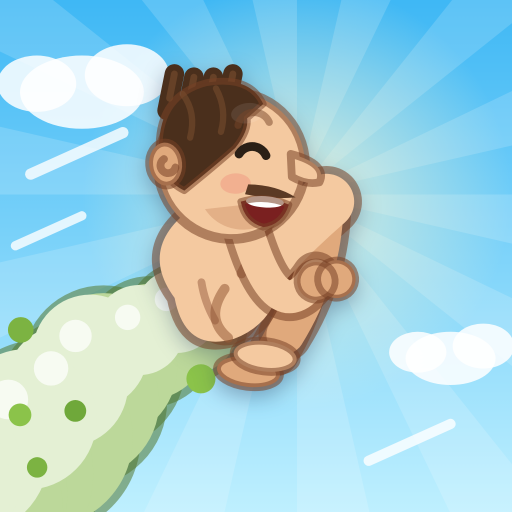
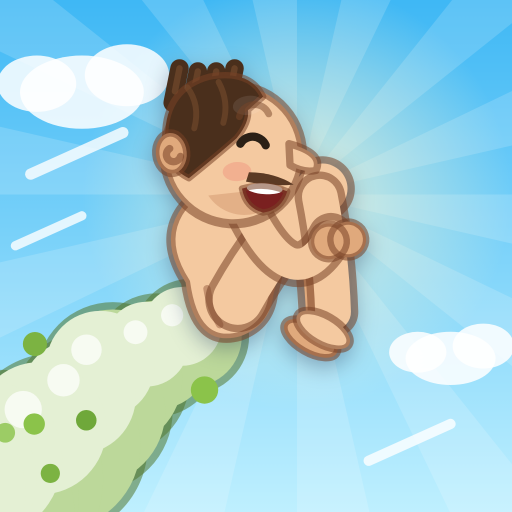
Rebuild Kurt's tuck as an upright cannonball from the reference photos (#6)
Re-pose the tuck to match the reference photos directly: the body stays
upright with a tall rounded back, the knees are hugged up to chest height
so they lead in front of the chin, the shins hang almost straight down
from the knees so the feet dangle below the butt with sky showing between
the calves and the belly, and the near arm runs down the side of the
thigh to a low elbow with the forearm crossing the shin just under the
knee, hands clasped on the shin.

Every piece is back to being its own fully outlined capsule, layered back
to front, so each overlap draws a clean edge and the negative space does
the work at game size instead of a single merged outline. The fart origin
moves with the butt.

The icon framing scales down and shifts up for the taller pose so the
feet stay inside the frame and the maskable safe circle; all icon PNGs
regenerated with tools/build-icons.mjs.

Claude-Session: https://claude.ai/code/session_01Xv5vU6vvioL4J4ZmquSQUE

Changed region(s): [[0.0, 0.0938, 0.7188, 1.0]]

diff --git a/src/kurt.js b/src/kurt.js
@@ -139,8 +139,8 @@ export function getButtPosition(kurt) {
   const rad = (kurt.rotation * Math.PI) / 180;
   const cos = Math.cos(rad);
   const sin = Math.sin(rad);
-  const localX = -R * 0.42;
-  const localY = R * 0.3;
+  const localX = -R * 0.5;
+  const localY = R * 0.58;
   return {
     x: kurt.x + localX * cos - localY * sin,
     y: kurt.y + localX * sin + localY * cos,
@@ -254,95 +254,77 @@ export function drawKurt(ctx, kurt) {
   ctx.restore();
 }
 
-// The flying tuck (a cannonball off the diving board). Kurt faces +x.
-// Thighs fold up hard against the chest so the knees sit just in front
-// of and below the chin, the shins fold back tight under the thighs with
-// the heels pulled in under the butt, the feet trail back and down, and
-// the near arm wraps around the outside of the leg to grip the shin just
-// below the knee.
+// The flying tuck: a cannonball off the diving board. Kurt faces +x.
+// Built straight from the reference photos: the body stays upright with
+// a rounded back, the knees are hugged up to chest height so they lead in
+// front of the chin, the shins hang almost straight down from the knees
+// so the feet dangle below the butt with sky showing between the calves
+// and the belly, and the near arm runs down the side of the thigh to a
+// low elbow with the forearm crossing the shin just under the knee,
+// hands clasped on the shin.
 //
-// Readability over anatomy: the outer silhouette carries the pose — a
-// round back, a knee bump leading in front, the straight underside of the
-// folded leg running from knee back to the feet, the feet as a bump
-// below, and the arm's elbow and hands bumping out in front. The torso,
-// near thigh and near shin share one outline pass and one fill pass so
-// they read as a single clean body; the shin in shade and a few crease
-// lines separate the limbs inside it. The far leg, the feet, the arm and
-// the hands are separate outlined pieces.
+// Readability over anatomy: every piece is its own fully outlined
+// capsule, layered back to front so each overlap draws a clean edge, and
+// the layout leaves real negative space (between shin and belly, between
+// chin and knee) so the silhouette alone says "tucked" at game size.
+//   far shin + far foot (shade) -> torso -> near thigh -> near shin ->
+//   near foot -> near arm -> clasped hands
 // Limbs are [startX, startY, controlX, controlY, endX, endY, width] in R.
-const NEAR_THIGH = [-0.3, 0.46, 0.14, 0.12, 0.7, -0.14, 0.44];
-const NEAR_SHIN = [0.68, -0.12, 0.52, 0.4, 0.1, 0.78, 0.3];
-const FAR_SHIN = [0.52, 0.0, 0.38, 0.5, -0.02, 0.88, 0.28];
-const NEAR_ARM = [0.04, -0.3, 0.0, 0.8, 0.46, 0.4, 0.26];
+const NEAR_THIGH = [-0.24, 0.56, 0.18, 0.14, 0.7, -0.14, 0.42];
+const NEAR_SHIN = [0.66, -0.08, 0.62, 0.4, 0.5, 0.88, 0.3];
+const FAR_SHIN = [0.56, -0.04, 0.52, 0.44, 0.4, 0.92, 0.28];
+const NEAR_ARM = [0.02, -0.3, 0.16, 0.76, 0.66, 0.26, 0.26];
 const LIMB_EDGE = 3.2;
 
 function drawTuckBody(ctx, R, wiggle) {
-  // far leg, in shade: a second knee and a second foot peeking out just
-  // below and behind the near leg, so the tuck clearly has both legs up
-  strokeLimb(ctx, R, FAR_SHIN, OUTLINE, LIMB_EDGE);
-  strokeLimb(ctx, R, FAR_SHIN, SKIN_SHADE, 0);
-  drawFoot(ctx, R, -0.26, 0.98, 0.4, SKIN_SHADE);
-
-  // torso + near thigh + near shin as one silhouette
   ctx.lineJoin = "round";
-  torsoPath(ctx, R);
-  ctx.strokeStyle = OUTLINE;
-  ctx.lineWidth = LIMB_EDGE;
-  ctx.stroke();
-  strokeLimb(ctx, R, NEAR_THIGH, OUTLINE, LIMB_EDGE);
-  strokeLimb(ctx, R, NEAR_SHIN, OUTLINE, LIMB_EDGE);
+
+  // far leg, in shade: a second shin and foot just behind the near leg,
+  // so the tuck clearly has both legs hugged up
+  drawLimb(ctx, R, FAR_SHIN, SKIN_SHADE);
+  drawFoot(ctx, R, 0.26, 1.04, 0.8, SKIN_SHADE);
+
   torsoPath(ctx, R);
   ctx.fillStyle = SKIN;
   ctx.fill();
-  strokeLimb(ctx, R, NEAR_SHIN, SKIN_SHADE, 0);
-  strokeLimb(ctx, R, NEAR_THIGH, SKIN, 0);
-
-  // creases carving the limbs out of the silhouette: the top of the thigh
-  // against the chest and the glute fold at the hip
-  ctx.strokeStyle = "rgba(150,90,55,0.55)";
+  ctx.strokeStyle = OUTLINE;
   ctx.lineWidth = 2;
-  ctx.lineCap = "round";
-  ctx.beginPath();
-  ctx.moveTo(-R * 0.1, R * 0.22);
-  ctx.quadraticCurveTo(R * 0.2, -R * 0.1, R * 0.5, -R * 0.32);
   ctx.stroke();
-  ctx.beginPath();
-  ctx.moveTo(-R * 0.26, R * 0.3);
-  ctx.quadraticCurveTo(-R * 0.48, R * 0.48, -R * 0.34, R * 0.68);
-  ctx.stroke();
-
-  drawFoot(ctx, R, -0.1, 0.9, 0.4, SKIN);
   drawButtCrack(ctx, R, wiggle);
 
-  // near arm: runs down the outside of the thigh to a low elbow, then the
-  // forearm reaches up and forward to grip the shin just below the knee
-  strokeLimb(ctx, R, NEAR_ARM, OUTLINE, LIMB_EDGE);
-  strokeLimb(ctx, R, NEAR_ARM, SKIN, 0);
-  drawClaspedHands(ctx, R, R * 0.52, R * 0.44);
+  // near leg: thigh hugged up to the chest, shin hanging from the knee
+  drawLimb(ctx, R, NEAR_THIGH, SKIN);
+  drawLimb(ctx, R, NEAR_SHIN, SKIN);
+  drawFoot(ctx, R, 0.38, 1.0, 0.8, SKIN);
+
+  // near arm: down the side of the thigh to a low elbow, then the forearm
+  // reaches up and forward to grip the shin just below the knee
+  drawLimb(ctx, R, NEAR_ARM, SKIN);
+  drawClaspedHands(ctx, R, R * 0.7, R * 0.3);
 }
 
 function torsoPath(ctx, R) {
-  // a compact bean folded forward: a strong rounded back from the
-  // shoulders down to a round butt, the chest leaning into the thigh
+  // an upright bean: tall rounded back from the shoulders down to a round
+  // butt, a narrow belly so the hanging shins clear it
   ctx.beginPath();
   ctx.moveTo(R * 0.2, -R * 0.42);
-  ctx.quadraticCurveTo(R * 0.02, -R * 0.5, -R * 0.14, -R * 0.44);
-  ctx.quadraticCurveTo(-R * 0.86, -R * 0.28, -R * 0.66, R * 0.26);
-  ctx.quadraticCurveTo(-R * 0.7, R * 0.7, -R * 0.3, R * 0.7);
-  ctx.quadraticCurveTo(-R * 0.05, R * 0.68, R * 0.1, R * 0.5);
-  ctx.quadraticCurveTo(R * 0.42, R * 0.1, R * 0.4, -R * 0.24);
+  ctx.quadraticCurveTo(R * 0.02, -R * 0.5, -R * 0.14, -R * 0.46);
+  ctx.quadraticCurveTo(-R * 0.8, -R * 0.3, -R * 0.62, R * 0.3);
+  ctx.quadraticCurveTo(-R * 0.7, R * 0.86, -R * 0.3, R * 0.86);
+  ctx.quadraticCurveTo(-R * 0.04, R * 0.84, R * 0.06, R * 0.6);
+  ctx.quadraticCurveTo(R * 0.3, R * 0.2, R * 0.38, -R * 0.24);
   ctx.quadraticCurveTo(R * 0.36, -R * 0.42, R * 0.2, -R * 0.42);
   ctx.closePath();
 }
 
 function drawButtCrack(ctx, R, wiggle) {
-  const cx = -R * 0.46 + wiggle;
+  const cx = -R * 0.5 + wiggle;
   ctx.strokeStyle = "rgba(140,80,50,0.45)";
   ctx.lineWidth = 1.6;
   ctx.lineCap = "round";
   ctx.beginPath();
-  ctx.moveTo(cx, R * 0.2);
-  ctx.quadraticCurveTo(cx - R * 0.02, R * 0.36, cx + R * 0.02, R * 0.52);
+  ctx.moveTo(cx, R * 0.4);
+  ctx.quadraticCurveTo(cx - R * 0.02, R * 0.56, cx + R * 0.02, R * 0.72);
   ctx.stroke();
 }
 
@@ -376,16 +358,18 @@ function drawFoot(ctx, R, cx, cy, rot, fill) {
   ctx.stroke();
 }
 
-// a limb is a rounded stroke along a quadratic curve, [sx, sy, cx, cy,
-// ex, ey, width] in units of R; stroke it once wide in OUTLINE and once
-// in its fill colour (extra = 0) to get an outlined capsule
-function strokeLimb(ctx, R, [sx, sy, cx, cy, ex, ey, width], color, extra) {
+// a limb is an outlined capsule along a quadratic curve, given as
+// [sx, sy, cx, cy, ex, ey, width] in units of R
+function drawLimb(ctx, R, [sx, sy, cx, cy, ex, ey, width], fill) {
   ctx.lineCap = "round";
   ctx.beginPath();
   ctx.moveTo(R * sx, R * sy);
   ctx.quadraticCurveTo(R * cx, R * cy, R * ex, R * ey);
-  ctx.strokeStyle = color;
-  ctx.lineWidth = R * width + extra;
+  ctx.strokeStyle = OUTLINE;
+  ctx.lineWidth = R * width + LIMB_EDGE;
+  ctx.stroke();
+  ctx.strokeStyle = fill;
+  ctx.lineWidth = R * width;
   ctx.stroke();
 }
 

diff --git a/tools/icon-art.js b/tools/icon-art.js
@@ -58,9 +58,9 @@ export function drawIcon(ctx, size, { zoom = 1 } = {}) {
   // visual centre (between the head and the tucked legs) on the icon's
   // centre. The physics origin sits a little below and behind that.
   const R = 26;
-  const scale = size * 0.0119 * zoom;
+  const scale = size * 0.0112 * zoom;
   const originX = size * 0.51 - (R * 0.12) * scale;
-  const originY = size * 0.47 + (R * 0.02) * scale;
+  const originY = size * 0.44 + (R * 0.02) * scale;
 
   // sunburst radiating from Kurt
   ctx.save();
